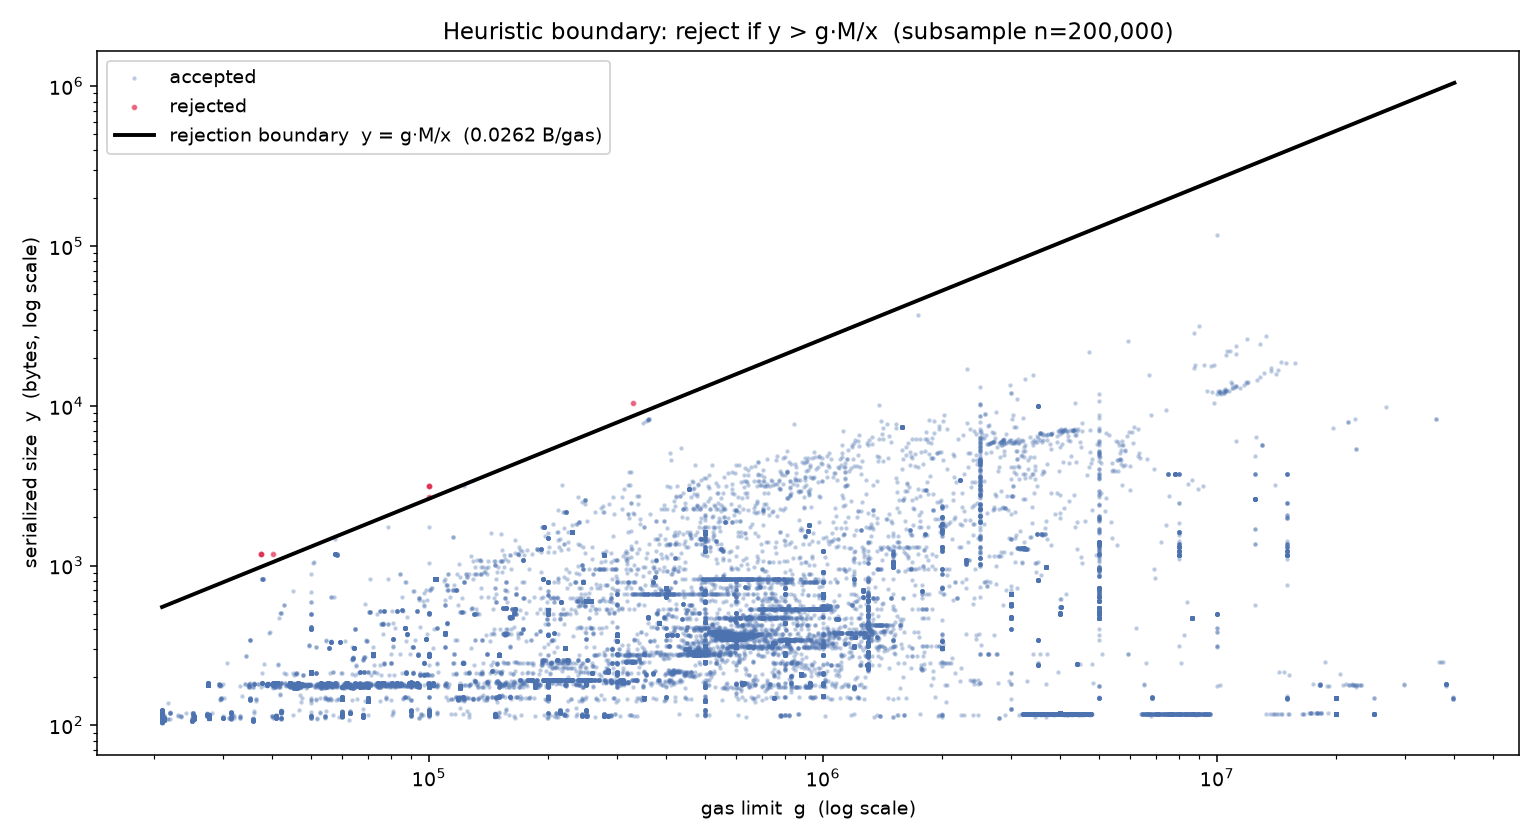
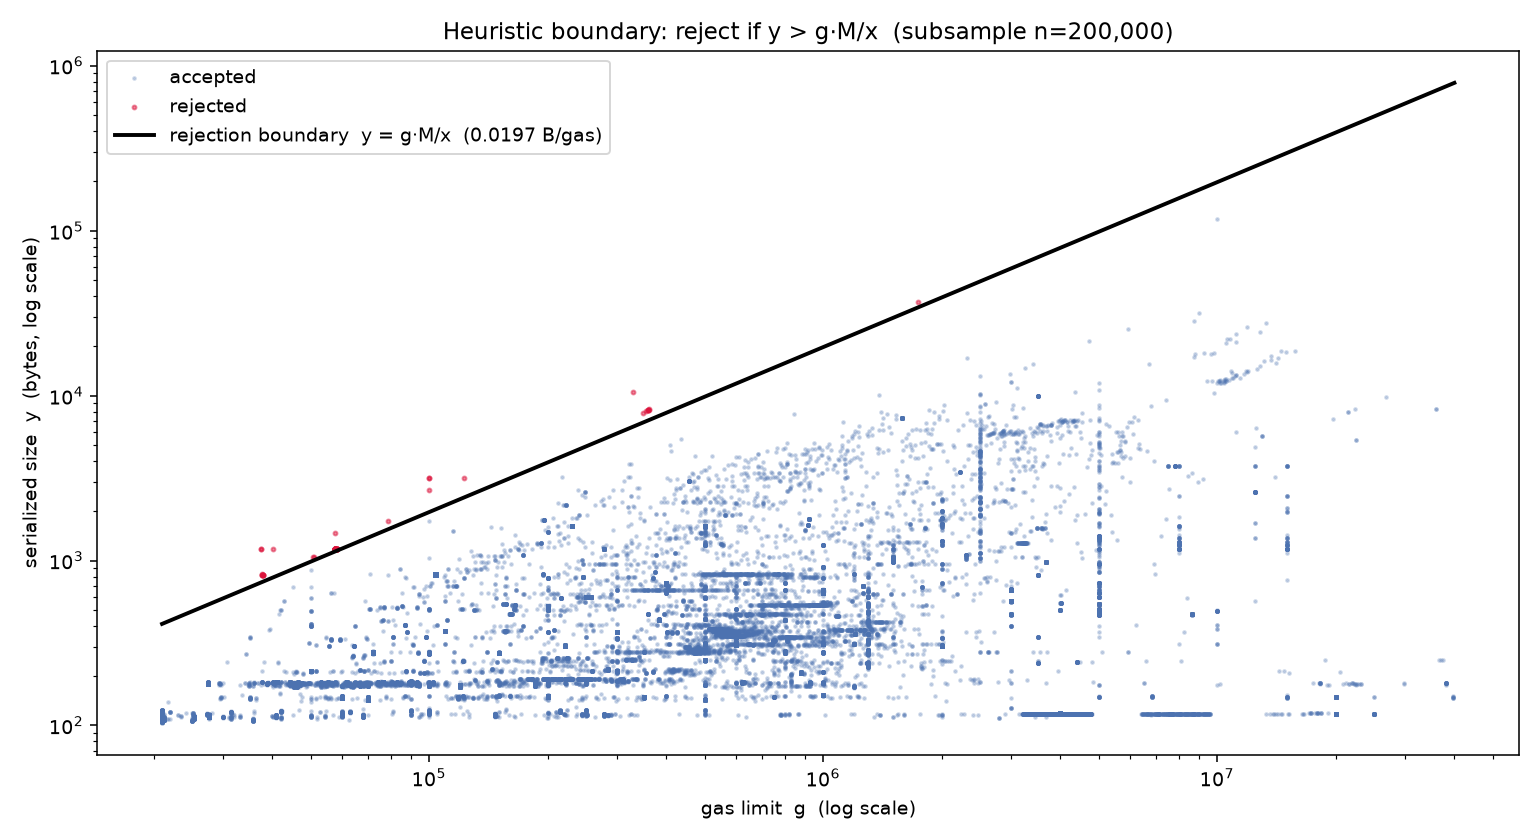
update docs with new figures

diff --git a/vms/saevm/txgossip/README.md b/vms/saevm/txgossip/README.md
@@ -47,19 +47,15 @@ protects.
 `50.9` gas/byte sits *above* even the 16 gas/nonzero-byte intrinsic cost, so it
 rejects any calldata-dominated tx with modest execution — raising the worry that
 it blocks legitimate traffic. Analysis of **all C-Chain EVM traffic for May 2026
-(82,577,809 txs)** — measured at the slightly looser `38.1` gas/byte cutoff of an
-earlier version of this rule (`M` = the full 2 MiB message size) — shows it does
-not:
+(82,577,809 txs)** shows it does not:
 
-- **3,724 txs (0.0045%, ~1 in 22,000) would be rejected.** The median tx sits at
-  ~362 gas/byte, **~7× above even today's threshold**, so the rule almost never
-  bites.
-- The rejected set is **legitimate, concentrated infrastructure** (DEX
-  aggregators, batch order-cancels, data-availability payloads with zero-padded
-  calldata), not spam — and rejection is **soft**: raising the tx's gas limit
-  makes it eligible.
+- **25,489 txs (0.0309%, ~1 in 3,240) would be rejected.** The median tx sits at
+  ~362 gas/byte, **~7× above the threshold**, so the rule almost never bites.
+- The rejected set is **calldata-dominated** traffic — byte-heavy relative to the
+  gas it buys, which is exactly what the ratio rule is meant to gate — not spam,
+  and rejection is **soft**: raising the tx's gas limit makes it eligible.
 - The absolute byte ceiling is never the binding constraint: the largest tx
-  all month was ~126 KB (~12× under `M`). The **gas/byte ratio**, not size, is
+  all month was ~123 KiB (~12× under `M`). The **gas/byte ratio**, not size, is
   what does the rejecting.
 
 <p>
@@ -71,8 +67,8 @@ Blocking an absurdly small percentage of legitimate traffic to keep blocks gossi
 ## Why atomic transactions are out of scope
 
 Atomic cross-chain txs (`ImportTx`/`ExportTx`) are byte-heavy and gas-light by
-construction (~36 gas/byte — see the red band in the figure, below the cutoff),
-so this rule would reject ~100% of them. They are gated out and handled
+construction (~36 gas/byte, below the cutoff), so this rule would reject ~100% of
+them. They are gated out and handled
 separately. **Any future use of `eligible` must only be reached by EVM txs.**
 
 ## How it is enforced — three layers
@@ -101,12 +97,11 @@ framing, without itemizing their worst-case sizes.
 - **`x = 80M`** is the Helicon-launch limit (live value from
   `worstcase.SafeMaxBlockSize`). A material change in the gas target shifts the
   threshold `x/M`; re-run the rejection-rate analysis before assuming the rule
-  stays this benign. The same applies to the tightening of the threshold from
-  the measured `38.1` to today's `50.9`.
+  stays this benign.
 - **`M = 1.5 MiB`** is `saeparams.MaxBlockTxBytes`, tracking
   `constants.DefaultMaxMessageSize`; if either the message size or the margins
   change, the threshold `x/M` moves with them.
-- **Traffic composition.** The 0.0045% figure was measured on traffic with no
+- **Traffic composition.** The 0.0309% figure was measured on traffic with no
   access lists. The rule uses the true `types.Transaction.Size()`, so it stays
   *correct* for any composition, but a future access-list- or calldata-heavy
   workload could make it bite more often than history suggests.